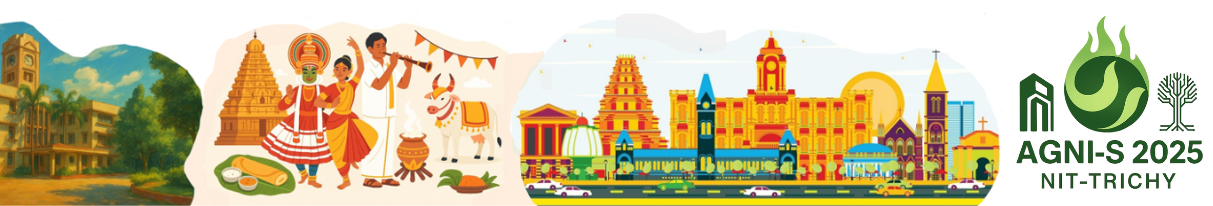
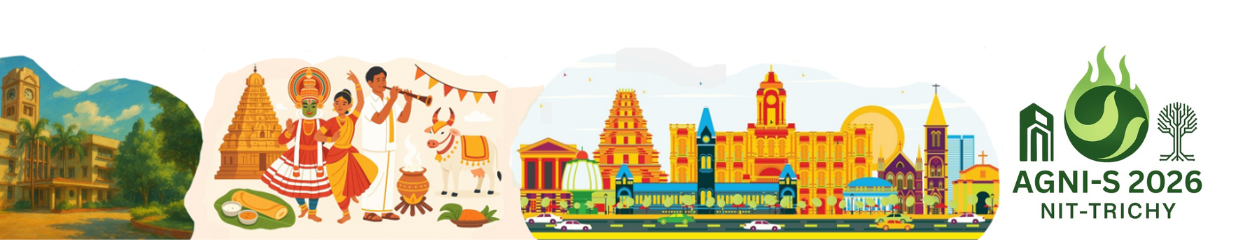
fix:changed year from 2025 to 2026

diff --git a/frontend/src/components/Award/posterAward.jsx b/frontend/src/components/Award/posterAward.jsx
@@ -26,7 +26,7 @@ const PosterAward = () => {
           <h2 className="text-2xl sm:text-3xl font-bold mb-4 text-center text-green-700">Best Poster Awards Guidelines</h2>
           <ul className="list-disc list-inside space-y-4 text-gray-800 text-lg leading-relaxed">
             <li>
-              <span className="font-semibold text-green-600">All posters selected for oral presentations</span> will automatically be nominated for the <span className="font-semibold text-green-600">AGNI-S 2025 Best Poster Award.</span>
+              <span className="font-semibold text-green-600">All posters selected for oral presentations</span> will automatically be nominated for the <span className="font-semibold text-green-600">AGNI-S 2026 Best Poster Award.</span>
             </li>
             <li>
               In each session, <span className="font-semibold text-green-600">one poster will be chosen</span> for the award based on the <span className="italic">quality of work, presentation skills,</span> and performance during Q&A.

diff --git a/frontend/src/components/Award/paperAward.jsx b/frontend/src/components/Award/paperAward.jsx
@@ -26,7 +26,7 @@ const PaperAward = () => {
           <h2 className="text-2xl sm:text-3xl font-bold mb-4 text-center text-green-700">Best Paper Awards Guidelines</h2>
           <ul className="list-disc list-inside space-y-4 text-gray-800 text-lg leading-relaxed">
             <li>
-              <span className="font-semibold text-green-600">All papers selected for oral presentations</span> will automatically be nominated for the <span className="font-semibold text-green-600">AGNI-S 2025 Best Paper Award.</span>
+              <span className="font-semibold text-green-600">All papers selected for oral presentations</span> will automatically be nominated for the <span className="font-semibold text-green-600">AGNI-S 2026 Best Paper Award.</span>
             </li>
             <li>
               In each session, <span className="font-semibold text-green-600">one paper will be chosen</span> for the award based on the <span className="italic">quality of work, presentation skills,</span> and performance during Q&A.

diff --git a/frontend/src/components/Footer/Footer.jsx b/frontend/src/components/Footer/Footer.jsx
@@ -16,14 +16,14 @@ const Footer = () => {
       <footer className="bg-green-100 p-2 py-6">
         <div className="flex justify-between items-center px-4 text-sm">
           <div className="flex flex-col md:flex-row items-center gap-2">
-            <div className="text-sm font-semibold">AGNI-S 2025</div>
+            <div className="text-sm font-semibold">AGNI-S 2026</div>
             <div className="hidden md:block">|</div>
             <div className="text-sm">NIT-TRICHY</div>
           </div>
 
           {/* Center Link */}
           <div className="text-sm order-first md:order-none">
-            <a href="https://www.linkedin.com/in/omgupta4510/">
+            <a href="https://www.linkedin.com/in/vidit-pandey-9932b5294/">
               Developed by <strong>BlueAura</strong>
             </a>
           </div>

diff --git a/frontend/src/components/Header/Header.jsx b/frontend/src/components/Header/Header.jsx
@@ -37,7 +37,7 @@ const conferncedate=data?.generalInformations[0].desc;
                  Net-Zero Innovation - Sustainability
             </h1>
             <h2 className="text-[30px] font-semibold text-green-600 mt-1"  style={{ textShadow: "2px 2px 4px rgba(0,0,0,0.3)"}}>
-               AGNI-S 2025
+               AGNI-S 2026
             </h2>
             <p className="text-[23px] text-gray-800 mt-4 font-medium">{conferncedate}
             </p>

diff --git a/frontend/src/components/HeroCarousel/HeroCarousel.jsx b/frontend/src/components/HeroCarousel/HeroCarousel.jsx
@@ -154,7 +154,7 @@ const HeroCarousel = () => {
                 Innovation - Sustainability
               </h1>
               <p className="text-lg md:text-xl mt-4 font-semibold">
-                AGNI-S 2025 <br /> 10–12 December, 2025
+                AGNI-S 2026 <br /> 15-17 April, 2026
               </p>
             </div>)}
           </div>

diff --git a/frontend/src/components/Home/CountdownTimer.jsx b/frontend/src/components/Home/CountdownTimer.jsx
@@ -4,7 +4,7 @@ const CountdownTimer = () => {
   const [timeLeft, setTimeLeft] = useState(calculateTimeLeft());
 
   function calculateTimeLeft() {
-    const targetDate = new Date("2025-12-10T00:00:00");
+    const targetDate = new Date("2026-04-10T00:00:00");
     const now = new Date();
     const difference = targetDate - now;
 
